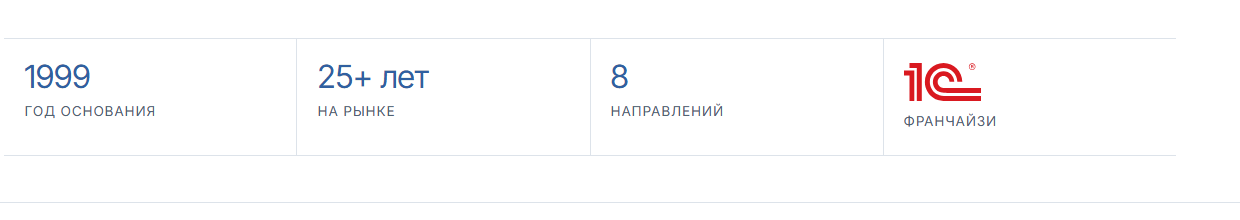
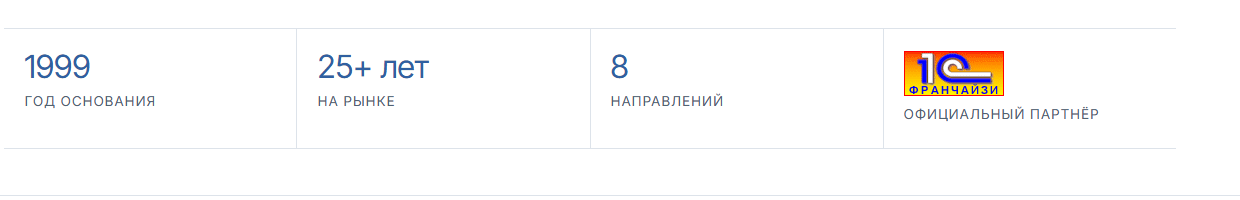
Официальный знак «1С:Франчайзи» с 1c.ru вместо текста; убран повтор слова под знаком

diff --git a/index.html b/index.html
@@ -29,7 +29,7 @@
   <link rel="preload" href="assets/fonts/rubik-wm-cyrillic.woff2" as="font" type="font/woff2" crossorigin>
   <link rel="preload" href="assets/fonts/inter-cyrillic.woff2" as="font" type="font/woff2" crossorigin>
   <link rel="preload" href="assets/fonts/inter-tight-cyrillic.woff2" as="font" type="font/woff2" crossorigin>
-  <link rel="stylesheet" href="assets/style.css?v=20261182">
+  <link rel="stylesheet" href="assets/style.css?v=20261184">
 
   <script type="application/ld+json">
   {
@@ -81,7 +81,7 @@
   <header class="site-header">
     <div class="container header-inner">
       <a class="brand" href="#top" aria-label="Интер-Техника-Плюс — на главную">
-        <img class="brand-logo" src="assets/logo.png?v=20261182" alt="Интер-Техника-Плюс" width="112" height="44">
+        <img class="brand-logo" src="assets/logo.png?v=20261184" alt="Интер-Техника-Плюс" width="112" height="44">
         <span class="brand-name">Интер-Техника<span class="brand-plus">+</span></span>
       </a>
 
@@ -157,8 +157,8 @@
             <dd>направлений</dd>
           </div>
           <div class="fact">
-            <dt class="fact__logo"><img src="assets/partners/1c-franchisee.png" alt="1С:Франчайзи" width="150" height="42" loading="lazy" onerror="this.onerror=null;this.src='assets/partners/1c.svg'"></dt>
-            <dd>франчайзи</dd>
+            <dt class="fact__logo"><img src="assets/partners/1c-franchisee.gif" alt="1С:Франчайзи" width="100" height="45" loading="lazy"></dt>
+            <dd>официальный партнёр</dd>
           </div>
         </dl>
       </div>
@@ -276,7 +276,7 @@
           <li class="partner"><a href="https://devline.ru/" target="_blank" rel="noopener"><img src="assets/partners/devline.svg" alt="Devline — система видеонаблюдения «Линия»" loading="lazy"><span class="partner__name">Devline</span></a></li>
           <li class="partner"><a href="https://www.3cx.com/" target="_blank" rel="noopener"><img src="assets/partners/3cx.svg" alt="3CX" loading="lazy"><span class="partner__name">3CX</span></a></li>
           <li class="partner"><a href="https://rudesktop.ru/" target="_blank" rel="noopener"><img src="assets/partners/rudesktop.svg" alt="RuDesktop" loading="lazy"><span class="partner__name">RuDesktop</span></a></li>
-          <li class="partner"><a href="https://1c.ru/" target="_blank" rel="noopener"><img src="assets/partners/1c-franchisee.png" alt="1С:Франчайзи" loading="lazy" onerror="this.onerror=null;this.src='assets/partners/1c.svg'"><span class="partner__name">1С:Франчайзи</span></a></li>
+          <li class="partner"><a href="https://1c.ru/" target="_blank" rel="noopener"><img src="assets/partners/1c-franchisee.gif" alt="1С:Франчайзи" width="100" height="45" loading="lazy"><span class="visually-hidden">1С:Франчайзи</span></a></li>
           <li class="partner"><a href="https://www.nic.ru/" target="_blank" rel="noopener"><img src="assets/partners/rucenter.svg" alt="RU-CENTER" loading="lazy"><span class="partner__name">RU-CENTER</span></a></li>
         </ul>
       </div>
@@ -426,8 +426,8 @@
     <a class="btn btn--ghost" href="https://yandex.ru/maps/org/1043257440/" target="_blank" rel="noopener">Написать</a>
   </div>
 
-  <script src="assets/app.js?v=20261182" defer></script>
-<script src="assets/hours.js?v=20261182" defer></script>
-  <script src="assets/map.js?v=20261182" defer></script>
+  <script src="assets/app.js?v=20261184" defer></script>
+<script src="assets/hours.js?v=20261184" defer></script>
+  <script src="assets/map.js?v=20261184" defer></script>
 </body>
 </html>

diff --git a/new.html b/new.html
@@ -21,13 +21,13 @@
   <link rel="icon" href="assets/favicon-32.png" type="image/png" sizes="32x32">
   <link rel="icon" href="assets/favicon-192.png" type="image/png" sizes="192x192">
   <link rel="apple-touch-icon" href="assets/apple-touch-icon.png" sizes="180x180">
-  <link rel="stylesheet" href="assets/style.css?v=20261182">
+  <link rel="stylesheet" href="assets/style.css?v=20261184">
 </head>
 <body>
   <header class="site-header">
     <div class="container header-inner">
       <a class="brand" href="index.html" aria-label="Интер-Техника-Плюс — на главную">
-        <img class="brand-logo" src="assets/logo.png?v=20261182" alt="Интер-Техника-Плюс" width="112" height="44">
+        <img class="brand-logo" src="assets/logo.png?v=20261184" alt="Интер-Техника-Плюс" width="112" height="44">
         <span class="brand-name">Интер-Техника<span class="brand-plus">+</span></span>
       </a>
       <button class="nav-toggle" type="button" aria-expanded="false" aria-controls="nav">
@@ -130,9 +130,9 @@
   </div>
 </footer>
 
-  <script src="assets/app.js?v=20261182" defer></script>
-<script src="assets/hours.js?v=20261182" defer></script>
-  <script src="assets/catalog.js?v=20261182" defer></script>
-<script src="assets/order.js?v=20261182" defer></script>
+  <script src="assets/app.js?v=20261184" defer></script>
+<script src="assets/hours.js?v=20261184" defer></script>
+  <script src="assets/catalog.js?v=20261184" defer></script>
+<script src="assets/order.js?v=20261184" defer></script>
 </body>
 </html>

diff --git a/used.html b/used.html
@@ -21,13 +21,13 @@
   <link rel="icon" href="assets/favicon-32.png" type="image/png" sizes="32x32">
   <link rel="icon" href="assets/favicon-192.png" type="image/png" sizes="192x192">
   <link rel="apple-touch-icon" href="assets/apple-touch-icon.png" sizes="180x180">
-  <link rel="stylesheet" href="assets/style.css?v=20261182">
+  <link rel="stylesheet" href="assets/style.css?v=20261184">
 </head>
 <body>
   <header class="site-header">
     <div class="container header-inner">
       <a class="brand" href="index.html" aria-label="Интер-Техника-Плюс — на главную">
-        <img class="brand-logo" src="assets/logo.png?v=20261182" alt="Интер-Техника-Плюс" width="112" height="44">
+        <img class="brand-logo" src="assets/logo.png?v=20261184" alt="Интер-Техника-Плюс" width="112" height="44">
         <span class="brand-name">Интер-Техника<span class="brand-plus">+</span></span>
       </a>
       <button class="nav-toggle" type="button" aria-expanded="false" aria-controls="nav">
@@ -130,9 +130,9 @@
   </div>
 </footer>
 
-  <script src="assets/app.js?v=20261182" defer></script>
-<script src="assets/hours.js?v=20261182" defer></script>
-  <script src="assets/catalog.js?v=20261182" defer></script>
-<script src="assets/order.js?v=20261182" defer></script>
+  <script src="assets/app.js?v=20261184" defer></script>
+<script src="assets/hours.js?v=20261184" defer></script>
+  <script src="assets/catalog.js?v=20261184" defer></script>
+<script src="assets/order.js?v=20261184" defer></script>
 </body>
 </html>

diff --git a/requisites.html b/requisites.html
@@ -10,13 +10,13 @@
   <link rel="icon" href="assets/favicon-32.png" type="image/png" sizes="32x32">
   <link rel="icon" href="assets/favicon-192.png" type="image/png" sizes="192x192">
   <link rel="apple-touch-icon" href="assets/apple-touch-icon.png" sizes="180x180">
-  <link rel="stylesheet" href="assets/style.css?v=20261182">
+  <link rel="stylesheet" href="assets/style.css?v=20261184">
 </head>
 <body>
   <header class="site-header">
     <div class="container header-inner">
       <a class="brand" href="index.html" aria-label="Интер-Техника-Плюс — на главную">
-        <img class="brand-logo" src="assets/logo.png?v=20261182" alt="Интер-Техника-Плюс" width="112" height="44">
+        <img class="brand-logo" src="assets/logo.png?v=20261184" alt="Интер-Техника-Плюс" width="112" height="44">
         <span class="brand-name">Интер-Техника<span class="brand-plus">+</span></span>
       </a>
       <button class="nav-toggle" type="button" aria-expanded="false" aria-controls="nav">
@@ -160,7 +160,7 @@
   </div>
 </footer>
 
-  <script src="assets/app.js?v=20261182" defer></script>
-<script src="assets/hours.js?v=20261182" defer></script>
+  <script src="assets/app.js?v=20261184" defer></script>
+<script src="assets/hours.js?v=20261184" defer></script>
 </body>
 </html>

diff --git a/404.html b/404.html
@@ -9,13 +9,13 @@
   <link rel="icon" href="assets/favicon-32.png" type="image/png" sizes="32x32">
   <link rel="icon" href="assets/favicon-192.png" type="image/png" sizes="192x192">
   <link rel="apple-touch-icon" href="assets/apple-touch-icon.png" sizes="180x180">
-  <link rel="stylesheet" href="assets/style.css?v=20261182">
+  <link rel="stylesheet" href="assets/style.css?v=20261184">
 </head>
 <body>
   <header class="site-header">
     <div class="container header-inner">
       <a class="brand" href="index.html" aria-label="Интер-Техника-Плюс — на главную">
-        <img class="brand-logo" src="assets/logo.png?v=20261182" alt="Интер-Техника-Плюс" width="112" height="44">
+        <img class="brand-logo" src="assets/logo.png?v=20261184" alt="Интер-Техника-Плюс" width="112" height="44">
         <span class="brand-name">Интер-Техника<span class="brand-plus">+</span></span>
       </a>
       <nav class="nav" aria-label="Основная навигация">
@@ -73,7 +73,7 @@
   </div>
 </footer>
 
-  <script src="assets/app.js?v=20261182" defer></script>
-<script src="assets/hours.js?v=20261182" defer></script>
+  <script src="assets/app.js?v=20261184" defer></script>
+<script src="assets/hours.js?v=20261184" defer></script>
 </body>
 </html>

diff --git a/privacy.html b/privacy.html
@@ -13,13 +13,13 @@
   <link rel="canonical" href="https://ivu.ru/privacy.html">
 <link rel="icon" href="assets/favicon-192.png" type="image/png" sizes="192x192">
   <link rel="apple-touch-icon" href="assets/apple-touch-icon.png" sizes="180x180">
-  <link rel="stylesheet" href="assets/style.css?v=20261182">
+  <link rel="stylesheet" href="assets/style.css?v=20261184">
 </head>
 <body>
   <header class="site-header">
     <div class="container header-inner">
       <a class="brand" href="index.html" aria-label="Интер-Техника-Плюс — на главную">
-        <img class="brand-logo" src="assets/logo.png?v=20261182" alt="Интер-Техника-Плюс" width="112" height="44">
+        <img class="brand-logo" src="assets/logo.png?v=20261184" alt="Интер-Техника-Плюс" width="112" height="44">
         <span class="brand-name">Интер-Техника<span class="brand-plus">+</span></span>
       </a>
       <button class="nav-toggle" type="button" aria-expanded="false" aria-controls="nav">
@@ -145,7 +145,7 @@
   </div>
 </footer>
 
-  <script src="assets/app.js?v=20261182" defer></script>
-<script src="assets/hours.js?v=20261182" defer></script>
+  <script src="assets/app.js?v=20261184" defer></script>
+<script src="assets/hours.js?v=20261184" defer></script>
 </body>
 </html>

diff --git a/assets/style.css b/assets/style.css
@@ -2005,4 +2005,4 @@ body > main { flex: 1 0 auto; }
 }
 /* Фирменный знак 1С в блоке фактов */
 .fact__logo { display: flex; align-items: center; min-height: 42px; }
-.fact__logo img { width: auto; height: clamp(28px, 3vw, 38px); }
+.fact__logo img { width: 100px; height: 45px; }

diff --git a/tovar.php b/tovar.php
@@ -108,7 +108,7 @@ $ogImage = $photos ? 'https://ivu.ru' . $uploadUrl . $photos[0] : 'https://ivu.r
 <link rel="icon" href="/assets/favicon.ico" sizes="any">
 <link rel="icon" href="/assets/favicon-32.png" type="image/png" sizes="32x32">
 <link rel="apple-touch-icon" href="/assets/apple-touch-icon.png" sizes="180x180">
-<link rel="stylesheet" href="/assets/style.css?v=20261182">
+<link rel="stylesheet" href="/assets/style.css?v=20261184">
 <?php if (!$notFound): ?>
 <script type="application/ld+json">
 {
@@ -132,7 +132,7 @@ $ogImage = $photos ? 'https://ivu.ru' . $uploadUrl . $photos[0] : 'https://ivu.r
 <header class="site-header">
   <div class="container header-inner">
     <a class="brand" href="/index.html" aria-label="Интер-Техника-Плюс — на главную">
-      <img class="brand-logo" src="/assets/logo.png?v=20261182" alt="Интер-Техника-Плюс" width="112" height="44">
+      <img class="brand-logo" src="/assets/logo.png?v=20261184" alt="Интер-Техника-Плюс" width="112" height="44">
       <span class="brand-name">Интер-Техника<span class="brand-plus">+</span></span>
     </a>
     <button class="nav-toggle" type="button" aria-expanded="false" aria-controls="nav">
@@ -354,9 +354,9 @@ $ogImage = $photos ? 'https://ivu.ru' . $uploadUrl . $photos[0] : 'https://ivu.r
     </div>
   </div>
 </footer>
-<script src="/assets/app.js?v=20261182" defer></script>
-<script src="/assets/hours.js?v=20261182" defer></script>
-<script src="/assets/order.js?v=20261182" defer></script>
+<script src="/assets/app.js?v=20261184" defer></script>
+<script src="/assets/hours.js?v=20261184" defer></script>
+<script src="/assets/order.js?v=20261184" defer></script>
 <script>
 document.addEventListener("DOMContentLoaded", function () {
   var button = document.getElementById("order-button");

diff --git a/blog.php b/blog.php
@@ -185,7 +185,7 @@ $ogImage = $post !== null && (string) $post['cover'] !== ''
 <link rel="icon" href="/assets/favicon.ico" sizes="any">
 <link rel="icon" href="/assets/favicon-32.png" type="image/png" sizes="32x32">
 <link rel="apple-touch-icon" href="/assets/apple-touch-icon.png" sizes="180x180">
-<link rel="stylesheet" href="/assets/style.css?v=20261182">
+<link rel="stylesheet" href="/assets/style.css?v=20261184">
 <?php if ($post !== null): ?>
 <script type="application/ld+json">
 {
@@ -217,7 +217,7 @@ $ogImage = $post !== null && (string) $post['cover'] !== ''
 <header class="site-header">
   <div class="container header-inner">
     <a class="brand" href="/index.html" aria-label="Интер-Техника-Плюс — на главную">
-      <img class="brand-logo" src="/assets/logo.png?v=20261182" alt="Интер-Техника-Плюс" width="112" height="44">
+      <img class="brand-logo" src="/assets/logo.png?v=20261184" alt="Интер-Техника-Плюс" width="112" height="44">
       <span class="brand-name">Интер-Техника<span class="brand-plus">+</span></span>
     </a>
     <button class="nav-toggle" type="button" aria-expanded="false" aria-controls="nav">
@@ -410,7 +410,7 @@ $ogImage = $post !== null && (string) $post['cover'] !== ''
     </div>
   </div>
 </footer>
-<script src="/assets/app.js?v=20261182" defer></script>
-<script src="/assets/hours.js?v=20261182" defer></script>
+<script src="/assets/app.js?v=20261184" defer></script>
+<script src="/assets/hours.js?v=20261184" defer></script>
 </body>
 </html>
